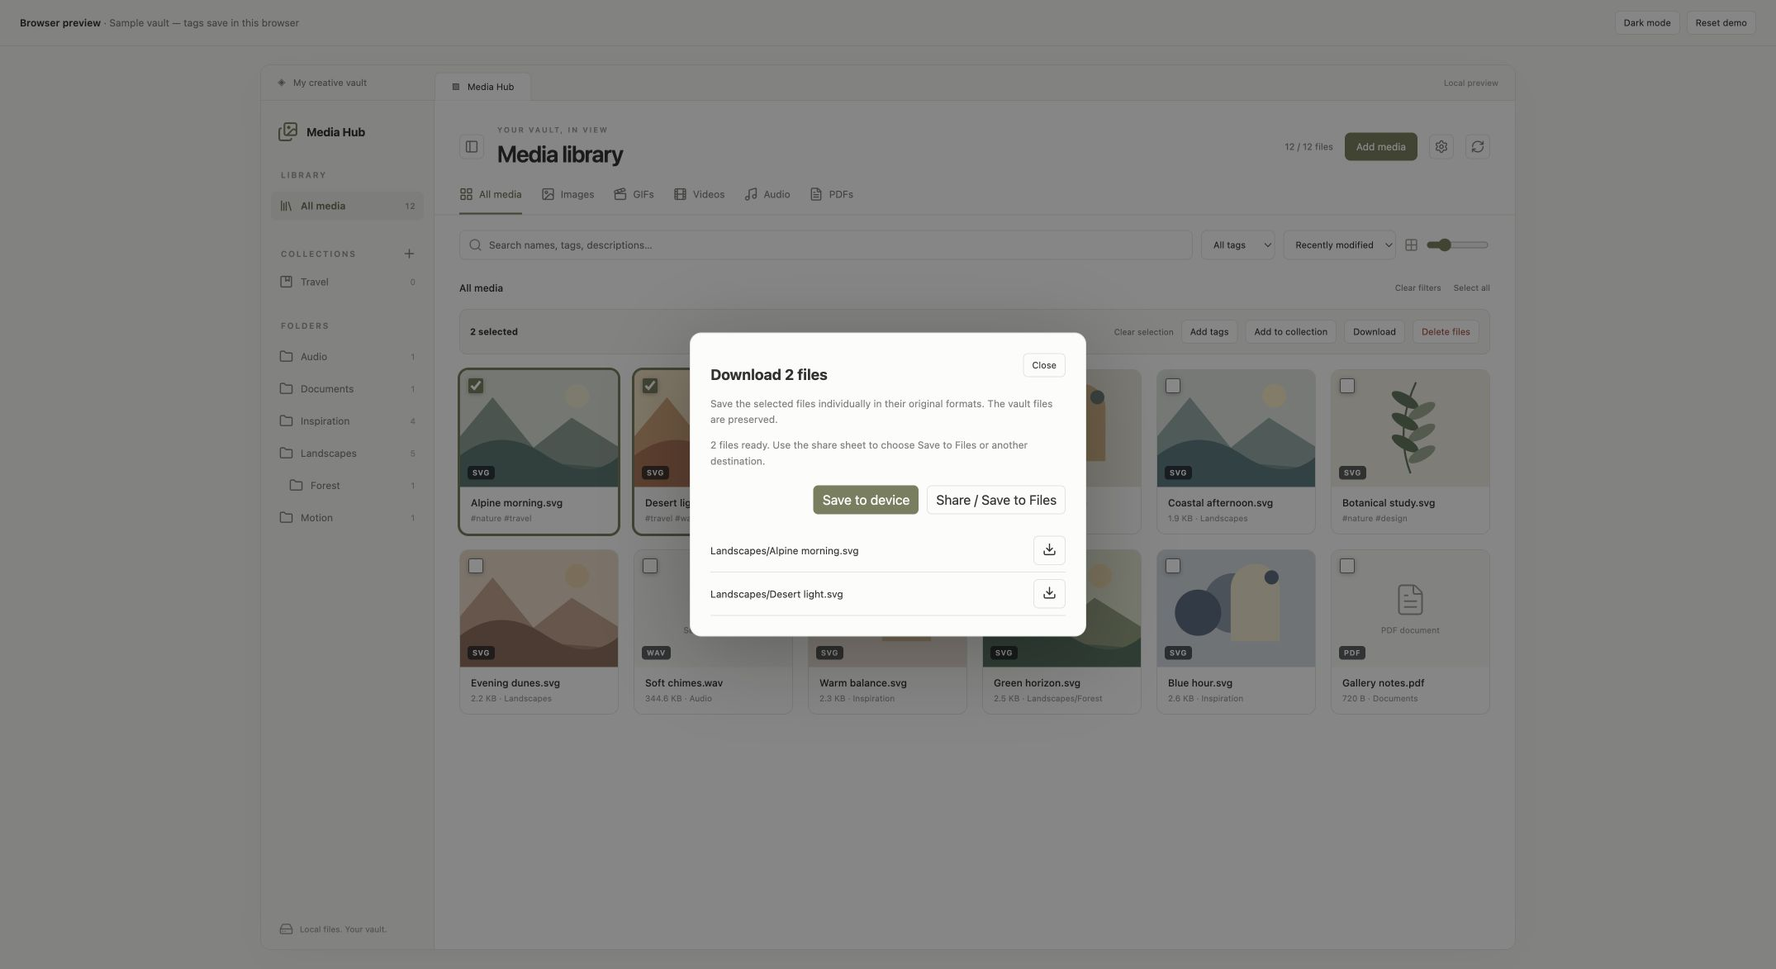
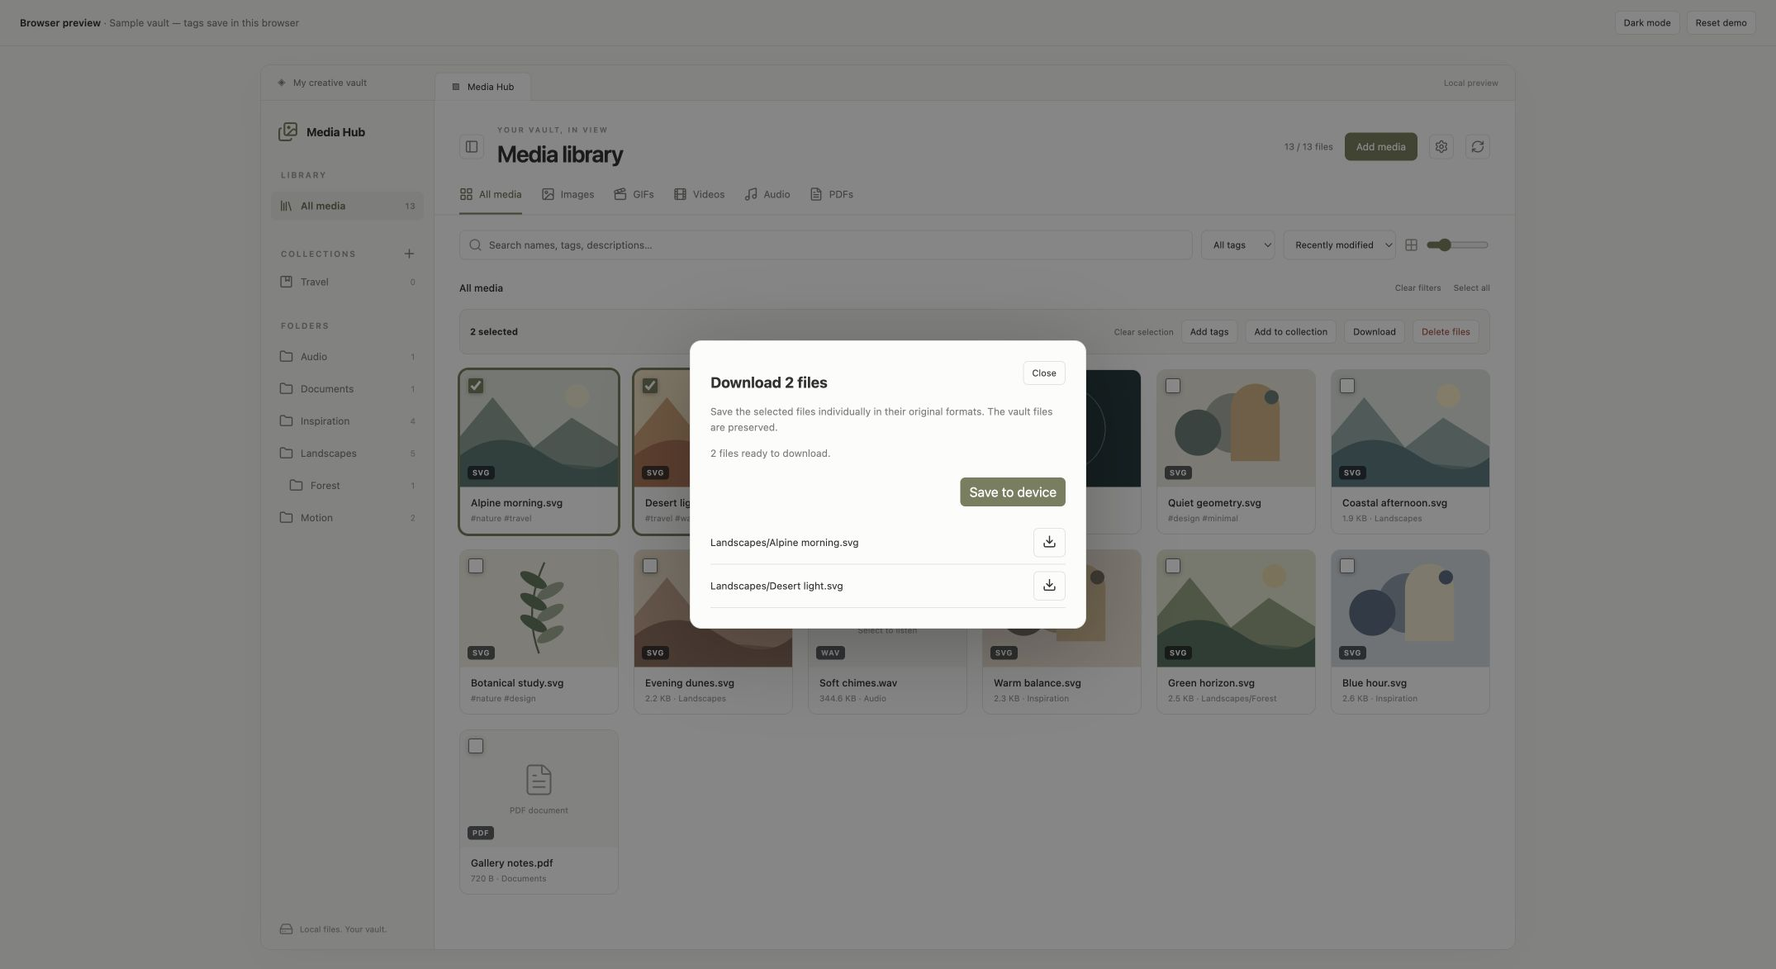
Save Android downloads natively and improve checked-media navigation

diff --git a/src/main.ts b/src/main.ts
@@ -1,12 +1,13 @@
 // Copyright (C) 2026 Sahand (sahandps)
 // SPDX-License-Identifier: GPL-3.0-only
 
-import { ItemView, Notice, Plugin, TFile, TFolder, WorkspaceLeaf, setIcon } from 'obsidian';
+import { ItemView, Notice, Plugin, Platform, CapacitorAdapter, TFile, TFolder, WorkspaceLeaf, setIcon } from 'obsidian';
 import {
   createCollection, filterMedia, formatSize, getMetadata, importPath, mediaAccept, mediaKind, normalizeImportFolder, moveMetadata, parseTags,
   removeMetadata, renamedPath, sanitizeData, type Filters, type GalleryData, type MediaKind, type SortOrder,
 } from './model';
 
+import { androidFilesystem, saveAndroidFiles } from './android-download';
 import { EXPORT_LIMIT, exportPayload } from './export-media';
 import { TagEditor } from './tag-editor';
 import { GalleryActionModal } from './action-modal';
@@ -353,10 +354,10 @@ export class GalleryView extends ItemView {
     this.applySettings();
     this.registerDomEvent(root, 'keydown', event => {
       const target = event.target as HTMLElement;
-      if (target.matches('input, textarea, select, [contenteditable="true"], video, audio')) return;
+      if (target.matches('input:not([type="checkbox"]), textarea, select, [contenteditable="true"], video, audio')) return;
       if (event.key === 'Escape') { this.select(null); event.preventDefault(); }
       if (this.selectedPath && (event.key === 'ArrowLeft' || event.key === 'ArrowRight')) {
-        this.navigate(event.key === 'ArrowLeft' ? -1 : 1); event.preventDefault();
+        this.navigate(event.key === 'ArrowLeft' ? -1 : 1); event.preventDefault(); event.stopPropagation();
       }
     });
     this.refresh();
@@ -563,7 +564,7 @@ export class GalleryView extends ItemView {
     el(info, 'div', 'vg-card-subtitle', meta.tags.length ? meta.tags.map(tag => `#${tag}`).join('  ') : `${formatSize(file.stat.size)} · ${file.parent?.path === '/' ? 'Vault root' : file.parent?.path || 'Vault root'}`);
   }
 
-  private select(path: string | null): void {
+  private select(path: string | null, scrollToPreview = true): void {
     stopMedia(this.preview);
     this.selectedPath = path;
     this.tagEditor = null;
@@ -726,7 +727,7 @@ export class GalleryView extends ItemView {
     description.addEventListener('input', markDirty);
     button(inspector, 'Download', 'download', () => this.openDownloadDialog([file.path]), 'vg-open-file');
     button(inspector, 'Open in Obsidian', 'external-link', () => { void this.openFile(file); }, 'vg-open-file');
-    this.preview.scrollIntoView?.({ block: 'nearest', behavior: 'smooth' });
+    if (scrollToPreview) this.preview.scrollIntoView?.({ block: 'nearest', behavior: 'smooth' });
   }
 
   private knownTags(): string[] {
@@ -853,6 +854,27 @@ export class GalleryView extends ItemView {
       const download = button(actions, 'Save to device', null, () => {}, 'mod-cta'); download.disabled = true;
       const owner = body.ownerDocument.defaultView;
       if (!owner) return;
+      if (Platform.isAndroidApp) {
+        const fs = androidFilesystem(owner);
+        const adapter = this.app.vault.adapter;
+        if (!fs || !(adapter instanceof CapacitorAdapter)) {
+          status.textContent = 'Direct saving is unavailable in this version of Obsidian. Update Obsidian and try again.';
+          return;
+        }
+        status.textContent = 'Each download saves original files in a new folder at: Documents/Media Hub.';
+        download.disabled = false;
+        download.addEventListener('click', () => {
+          download.disabled = true;
+          status.textContent = 'Saving files…';
+          const targets = paths.map(path => ({ path, source: adapter.getFullPath(path) }));
+          void saveAndroidFiles(fs, targets).then(result => {
+            status.textContent = `Saved ${result.saved.length} of ${paths.length} files to Documents/${result.folder}.${result.failed.length ? ` Could not save: ${result.failed.join(', ')}` : ''}`;
+          }).catch((error: unknown) => {
+            status.textContent = error instanceof Error ? error.message : 'Could not save files to Documents.';
+          }).finally(() => { download.disabled = false; });
+        });
+        return;
+      }
       const prepare = async () => {
         const files = this.app.vault.getFiles();
         const selected = paths.map(path => {
@@ -873,15 +895,6 @@ export class GalleryView extends ItemView {
         const payload = exportPayload(entries);
         if (!body.isConnected) return;
         const copies = payload;
-        const nav = owner.navigator;
-        const share = button(actions, 'Share / Save to Files', null, () => {
-          // Keep the native share call inside this fresh user gesture.
-          share.disabled = true;
-          void nav.share({ files: copies }).then(() => { status.textContent = 'Handed to your device’s share sheet.'; }).catch((error: unknown) => {
-            status.textContent = error instanceof Error && error.name === 'AbortError' ? 'Sharing cancelled. Your vault files are unchanged.' : 'Sharing is unavailable. Try Save to device instead.';
-          }).finally(() => { share.disabled = false; });
-        });
-        share.hidden = !(typeof nav.share === 'function' && typeof nav.canShare === 'function' && nav.canShare({ files: copies }));
         const saveCopy = (copy: File) => {
           const url = URL.createObjectURL(copy);
           const link = body.createEl('a', { text: copy.name });
@@ -900,7 +913,7 @@ export class GalleryView extends ItemView {
             button(row, `Save ${copy.name}`, 'download', () => saveCopy(copy));
           }
         }
-        status.textContent = share.hidden ? `${copies.length} ${copies.length === 1 ? 'file' : 'files'} ready. Save support depends on your device.` : `${copies.length} ${copies.length === 1 ? 'file' : 'files'} ready. Use the share sheet to choose Save to Files or another destination.`;
+        status.textContent = `${copies.length} ${copies.length === 1 ? 'file' : 'files'} ready to download.`;
       };
       void prepare().catch((error: unknown) => { status.textContent = error instanceof Error ? error.message : 'Could not prepare download.'; });
     }).open();
@@ -957,6 +970,11 @@ export class GalleryView extends ItemView {
   private navigate(direction: number): void {
     const index = this.filtered.findIndex(file => file.path === this.selectedPath);
     const file = this.filtered[index + direction];
-    if (file) this.select(file.path);
+    if (file) {
+      const focused = this.contentEl.ownerDocument.activeElement;
+      const navigationFocused = focused?.closest('.vg-preview-tools');
+      this.select(file.path, false);
+      if (navigationFocused) this.preview.querySelector<HTMLButtonElement>(`[aria-label="${direction < 0 ? 'Previous media' : 'Next media'}"]`)?.focus();
+    }
   }
 }

diff --git a/tests/view.test.ts b/tests/view.test.ts
@@ -4,7 +4,7 @@ import { build } from 'esbuild';
 import { JSDOM } from 'jsdom';
 import { resolve } from 'node:path';
 
-const bundle = await build({ stdin: { contents: "export {default} from './src/main'; export {TFolder as MockFolder} from './tests/obsidian-mock';", resolveDir: process.cwd(), loader: 'ts' }, bundle: true, platform: 'node', format: 'cjs', write: false, alias: { obsidian: resolve('tests/obsidian-mock.ts') } });
+const bundle = await build({ stdin: { contents: "export {default} from './src/main'; export {TFolder as MockFolder, Platform as MockPlatform, CapacitorAdapter as MockCapacitorAdapter} from './tests/obsidian-mock';", resolveDir: process.cwd(), loader: 'ts' }, bundle: true, platform: 'node', format: 'cjs', write: false, alias: { obsidian: resolve('tests/obsidian-mock.ts') } });
 const module = { exports: {} as any };
 new Function('module', 'exports', bundle.outputFiles[0].text)(module, module.exports);
 const GalleryPlugin = module.exports.default;
@@ -363,16 +363,11 @@ test('Save details leaves file and details unchanged if filename is invalid', as
   assert.match(doc.querySelector('.vg-rename-status')!.textContent!, /cannot contain/);
   await view.onClose();
 });
-test('download prepares a copy and native sharing uses the prepared bytes without deleting', async () => {
-  const { doc, dom, view, click, trashed } = await setup();
-  let shared: any;
-  Object.defineProperty(dom.window.navigator, 'canShare', { value: () => true });
-  Object.defineProperty(dom.window.navigator, 'share', { value: async (data: any) => { shared = data; } });
+test('download has no Share button and prepares original-file copies', async () => {
+  const { doc, view, click, trashed } = await setup();
   click('Preview photo.jpg'); click('Download'); await tick();
   assert.equal(doc.querySelector<HTMLButtonElement>('[aria-label="Save to device"]')!.disabled, false);
-  click('Share / Save to Files'); await tick();
-  assert.equal(shared.files[0].name, 'photo.jpg');
-  assert.deepEqual([...new Uint8Array(await shared.files[0].arrayBuffer())], [1, 2, 3]);
+  assert.equal(doc.querySelector('[aria-label="Share / Save to Files"]'), null);
   assert.deepEqual(trashed, []);
   await view.onClose();
 });
@@ -383,4 +378,38 @@ test('download reports read errors and never offers incomplete output', async ()
   assert.match(doc.querySelector('.vg-action-modal')!.textContent!, /Unreadable media/);
   assert.equal(doc.querySelector<HTMLButtonElement>('[aria-label="Save to device"]')!.disabled, true);
   await view.onClose();
+});
+
+test('checked media does not block previous/next buttons or keyboard arrows from a checkbox', async () => {
+  const { doc, dom, view, click } = await setup();
+  click('Preview book.pdf');
+  const checkbox = doc.querySelector<HTMLInputElement>('[aria-label="Select book.pdf"]')!;
+  checkbox.click(); checkbox.focus();
+  checkbox.dispatchEvent(new dom.window.KeyboardEvent('keydown', { key: 'ArrowRight', bubbles: true, cancelable: true }));
+  assert.equal(doc.querySelector<HTMLInputElement>('[aria-label="File name"]')!.value, 'clip');
+  assert.equal(checkbox.checked, true);
+  click('Next media');
+  assert.equal(doc.querySelector<HTMLInputElement>('[aria-label="File name"]')!.value, 'music');
+  click('Previous media');
+  assert.equal(doc.querySelector<HTMLInputElement>('[aria-label="File name"]')!.value, 'clip');
+  assert.equal(checkbox.checked, true);
+  await view.onClose();
+});
+
+
+test('Android Download uses native Documents copies instead of browser downloads or sharing', async () => {
+  const { doc, dom, plugin, view, click } = await setup();
+  const copied: any[] = [];
+  (dom.window as any).Capacitor = { Plugins: { Filesystem: { mkdir: async () => {}, copy: async (options: any) => { copied.push(options); } } } };
+  plugin.app.vault.adapter = new module.exports.MockCapacitorAdapter();
+  plugin.app.vault.readBinary = async () => { throw new Error('Android should copy natively'); };
+  module.exports.MockPlatform.isAndroidApp = true;
+  try {
+    click('Select all'); click('Download'); await tick();
+    assert.equal(doc.querySelector('[aria-label="Share / Save to Files"]'), null);
+    click('Save to device'); await tick();
+    assert.equal(copied.length, 5);
+    assert.equal(copied[0].toDirectory, 'DOCUMENTS');
+    assert.match(doc.querySelector('.vg-action-modal')!.textContent!, /Saved 5 of 5/);
+  } finally { module.exports.MockPlatform.isAndroidApp = false; await view.onClose(); }
 });

diff --git a/src/android-download.ts b/src/android-download.ts
@@ -1,0 +1,41 @@
+// Copyright (C) 2026 Sahand (sahandps)
+// SPDX-License-Identifier: GPL-3.0-only
+/** Obsidian already registers Capacitor's native Filesystem plugin on Android. */
+export interface AndroidFilesystem {
+  mkdir(options: { path: string; directory: string; recursive: boolean }): Promise<unknown>;
+  copy(options: { from: string; to: string; toDirectory: string }): Promise<unknown>;
+  checkPermissions?(): Promise<{ publicStorage: string }>;
+  requestPermissions?(): Promise<{ publicStorage: string }>;
+}
+export function androidFilesystem(owner: Window): AndroidFilesystem | undefined {
+  const host = owner as Window & { Capacitor?: { Plugins?: { Filesystem?: AndroidFilesystem } } };
+  const fs = host.Capacitor?.Plugins?.Filesystem;
+  return fs && typeof fs.copy === 'function' && typeof fs.mkdir === 'function' ? fs : undefined;
+}
+export async function saveAndroidFiles(fs: AndroidFilesystem, files: readonly { path: string; source: string }[]): Promise<{ folder: string; saved: string[]; failed: string[] }> {
+  if (!files.length) throw new Error('Select at least one file.');
+  if (fs.checkPermissions && fs.requestPermissions) {
+    const permission = await fs.checkPermissions();
+    if (permission.publicStorage !== 'granted') {
+      const result = await fs.requestPermissions();
+      if (result.publicStorage !== 'granted') throw new Error('Storage permission is needed to save to Documents.');
+    }
+  }
+  // A new export folder prevents overwriting device files or vault originals.
+  const folder = `Media Hub/${new Date().toISOString().replace(/[:.]/g, '-')}-${Math.random().toString(36).slice(2, 10)}`;
+  await fs.mkdir({ path: folder, directory: 'DOCUMENTS', recursive: true });
+  const names = new Set<string>();
+  const saved: string[] = [], failed: string[] = [];
+  for (const file of files) {
+    const original = file.path.split('/').pop()!;
+    let name = original, suffix = 1;
+    const dot = original.lastIndexOf('.');
+    while (names.has(name.toLowerCase())) name = `${dot < 0 ? original : original.slice(0, dot)} (${suffix++})${dot < 0 ? '' : original.slice(dot)}`;
+    names.add(name.toLowerCase());
+    try {
+      await fs.copy({ from: file.source, to: `${folder}/${name}`, toDirectory: 'DOCUMENTS' });
+      saved.push(file.path);
+    } catch { failed.push(file.path); }
+  }
+  return { folder, saved, failed };
+}

diff --git a/tests/android-download.test.ts b/tests/android-download.test.ts
@@ -1,0 +1,33 @@
+import { test } from 'node:test';
+import assert from 'node:assert/strict';
+import { saveAndroidFiles, androidFilesystem, type AndroidFilesystem } from '../src/android-download';
+
+test('Android copies originals directly to Documents and keeps duplicate names distinct', async () => {
+  const writes: any[] = [];
+  const fs: AndroidFilesystem = {
+    mkdir: async options => { writes.push(options); },
+    copy: async options => { writes.push(options); },
+    checkPermissions: async () => ({ publicStorage: 'granted' }),
+  };
+  const result = await saveAndroidFiles(fs, [{ path: 'Art/photo.jpg', source: '/vault/Art/photo.jpg' }, { path: 'Other/photo.jpg', source: '/vault/Other/photo.jpg' }]);
+  assert.equal(writes[0].directory, 'DOCUMENTS'); assert.equal(writes[0].recursive, true);
+  assert.equal(writes[1].from, '/vault/Art/photo.jpg'); assert.equal(writes[1].toDirectory, 'DOCUMENTS');
+  assert.equal(writes[1].to, `${result.folder}/photo.jpg`);
+  assert.equal(writes[2].to, `${result.folder}/photo (1).jpg`);
+  assert.deepEqual(result.failed, []); assert.equal(result.saved.length, 2);
+});
+test('Android reports partial failures and never claims a blocked save succeeded', async () => {
+  let count = 0;
+  const fs: AndroidFilesystem = { mkdir: async () => {}, copy: async () => { if (++count === 2) throw new Error('Storage full'); } };
+  const result = await saveAndroidFiles(fs, [{ path: 'a.png', source: '/a.png' }, { path: 'b.png', source: '/b.png' }]);
+  assert.deepEqual(result.saved, ['a.png']); assert.deepEqual(result.failed, ['b.png']);
+  fs.mkdir = async () => { throw new Error('Permission denied'); };
+  await assert.rejects(saveAndroidFiles(fs, [{ path: 'a.png', source: '/a.png' }]), /Permission denied/);
+  assert.equal(androidFilesystem({} as Window), undefined);
+});
+test('Android requests storage permission only when necessary and stops on denial', async () => {
+  let copied = false;
+  const fs: AndroidFilesystem = { mkdir: async () => {}, copy: async () => { copied = true; }, checkPermissions: async () => ({ publicStorage: 'prompt' }), requestPermissions: async () => ({ publicStorage: 'denied' }) };
+  await assert.rejects(saveAndroidFiles(fs, [{ path: 'a.png', source: '/a.png' }]), /Storage permission/);
+  assert.equal(copied, false);
+});

diff --git a/preview/obsidian.ts b/preview/obsidian.ts
@@ -74,3 +74,6 @@ export function setIcon(node: HTMLElement, name: string) {
   const icon = (icons as Record<string, IconNode>)[key];
   if (icon) node.replaceChildren(createElement(icon));
 }
+
+export const Platform = { isAndroidApp: false };
+export class CapacitorAdapter { getFullPath(path: string): string { return `/vault/${path}`; } }

diff --git a/tests/obsidian-mock.ts b/tests/obsidian-mock.ts
@@ -64,3 +64,6 @@ export class Modal {
   onClose() {}
 }
 export function setIcon(node: HTMLElement, name: string) { node.setAttribute('data-icon', name); }
+
+export const Platform = { isAndroidApp: false };
+export class CapacitorAdapter { getFullPath(path: string): string { return `/vault/${path}`; } }

diff --git a/README.md b/README.md
@@ -20,7 +20,7 @@ Choose a default folder for added media from the gallery's gear button or **Sett
 
 ![Download selected files in their original formats](docs/images/downloads.jpg)
 
-Save media copies to your device from the selection toolbar or expanded preview. Each file keeps its original format. Individual save buttons and supported native sharing give you control over where copies go.
+Save media copies to your device from the selection toolbar or expanded preview. Each file keeps its original format. On desktop, use individual save buttons or save the selection. On Android, save directly into a new folder inside Documents/Media Hub; the dialog reports the destination and any failed copies.
 
 ## Manual installation
 
@@ -54,7 +54,7 @@ Use a test vault for your first run. This plugin has automated tests but has not
 - **Tag chips:** type a tag and press Enter or comma; remove a chip with ×. Existing tags appear as suggestions, with mouse or arrow-key selection. Click **Save details** before switching files. Tags are normalized to lowercase and deduplicated.
 - **Multiple selection:** check media cards, Shift-click for a range, or use **Select all** for all matching files, including cards not yet loaded. Changing filters clears selections that are no longer visible. Bulk **Add tags** preserves existing tags and descriptions.
 - **Collections:** create a group with the + beside Collections, or select files and use **Add to collection** to choose an existing group or create one. Membership follows renames and folder moves observed while the plugin is running.
-- **Download:** save original files from the selection toolbar or preview. Multiple files remain separate, with individual save buttons if your device blocks bulk downloads. Where supported, **Share / Save to Files** opens the native share sheet. Available destinations and download support depend on the device; mobile behavior requires device testing. Files remain in the vault. Exports are prepared in memory and limited to 512 MB per selection.
+- **Download:** save original files from the selection toolbar or preview. Multiple files remain separate, with individual save buttons if your device blocks bulk downloads. On Android, the button copies files directly to a new folder inside **Documents/Media Hub**, using the native file bridge supplied by Obsidian. Each download creates a unique folder, and duplicate filenames get numbered suffixes. Storage permission may be requested on older Android versions. Missing native support, permission denial, and partial failures are reported. The Share button has been removed. Files remain in the vault. Desktop exports are prepared in memory and limited to 512 MB per selection. Android uses native file copies; this path has automated bridge tests but still needs verification on a physical device. iOS device saving remains unverified.
 - **Deletion:** **Remove from collection** keeps files in the vault and other collections. **Delete files** confirms the selected count and exact file paths before using Obsidian’s trash handling. Files renamed or replaced after confirmation are skipped; failures are reported.
 - Previous/next buttons and left/right arrow navigation; Escape closes the preview when outside a form or player.
 - Opens the original file in a separate Obsidian tab. PDFs open in Obsidian's reader.
@@ -104,6 +104,13 @@ Copyright © 2026 Sahand (sahandps). Licensed under the [GNU General Public Lice
 If Media Hub is useful to you, you can [buy me a coffee](https://buymeacoffee.com/sahandprs).
 
 ## Updates
+
+### 0.3.2
+
+- Replace browser downloads on Android with direct native copies to Documents/Media Hub.
+- Remove the Share button and sharing behavior.
+- Keep preview navigation working from focused checkboxes, retain arrow-button focus, and avoid repeated scrolling during navigation.
+- Add Android permission, copy, partial-failure, and checked-media navigation tests.
 
 ### 0.3.1
 

diff --git a/docs/release-notes.md b/docs/release-notes.md
@@ -1,16 +1,18 @@
-Media Hub 0.3.1 fixes filename saving and adds original-file downloads.
+Media Hub 0.3.2 adds direct Android saves and improves navigation with checked media.
 
-Editing **File name** and clicking **Save details** now applies the rename along with tags and description. **Rename file** and Enter remain available. Invalid names and collisions show an error without saving details to the wrong path.
+**Download on Android** now copies the selected original files into a new folder inside **Documents/Media Hub**, rather than relying on browser download links. The dialog reports the exact destination and any failed files. Each download creates a new folder; duplicate names receive numbered suffixes. Older Android versions may ask for storage permission. If Obsidian does not expose the required native file bridge, the dialog reports that saving is unavailable.
 
-Use **Download** in the selection toolbar or file preview to save copies on your device. Multiple files stay separate in their original formats—no ZIP archive. Use individual save buttons if your device blocks bulk downloads. Where supported, **Share / Save to Files** opens the native share sheet. Actual save destinations depend on the device; mobile functionality still requires device testing. Exports are prepared in memory and limited to 512 MB per selection.
+The **Share** button and all sharing behavior have been removed. Desktop downloads still save individual original files, with no ZIP archive. Vault originals remain unchanged. This Android path has automated tests with a mocked native bridge; physical-device verification is still needed.
 
-Requires Obsidian **1.7.2+**. Existing vault files are preserved by downloading. Licensed under **GPL-3.0-only**.
+Preview navigation now accepts left/right keys while checkboxes have focus, keeps arrow-button focus, and avoids scrolling the preview again on every previous/next action. Checked files remain selected while browsing.
+
+Requires Obsidian **1.7.2+**. Licensed under **GPL-3.0-only**.
 
 [Buy me a coffee](https://buymeacoffee.com/sahandprs)
 
 ### Updates
 
-- Apply filename edits through Save details, preserving tags and descriptions.
-- Download original media from previews or multiple selections without archives.
-- Offer individual saves and supported native sharing.
-- Add tests for original bytes, filenames, combined rename/save, and read failures.
+- Direct Android copies to Documents/Media Hub with destination and failure reporting.
+- Remove Share button and native sharing calls.
+- Improve checked-media preview navigation and focus handling.
+- Add permission, duplicate-name, partial-failure, and navigation regression tests.
